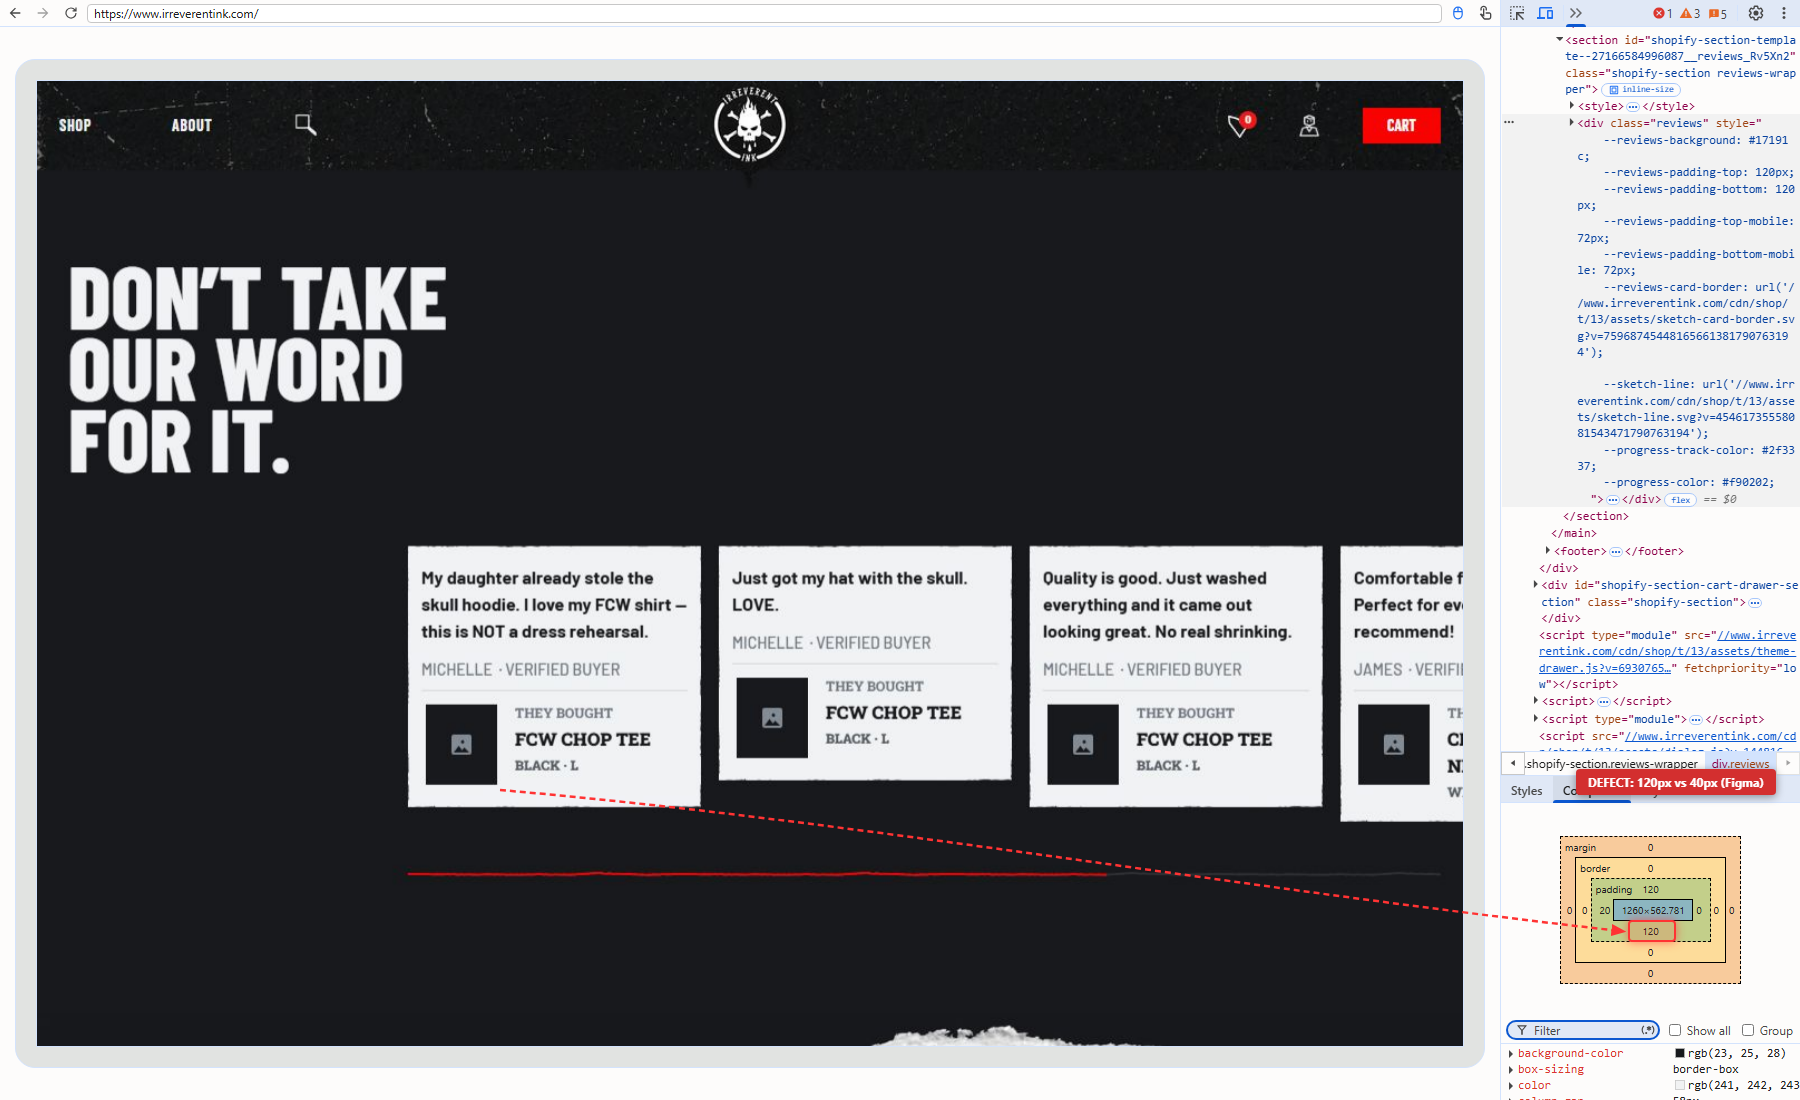
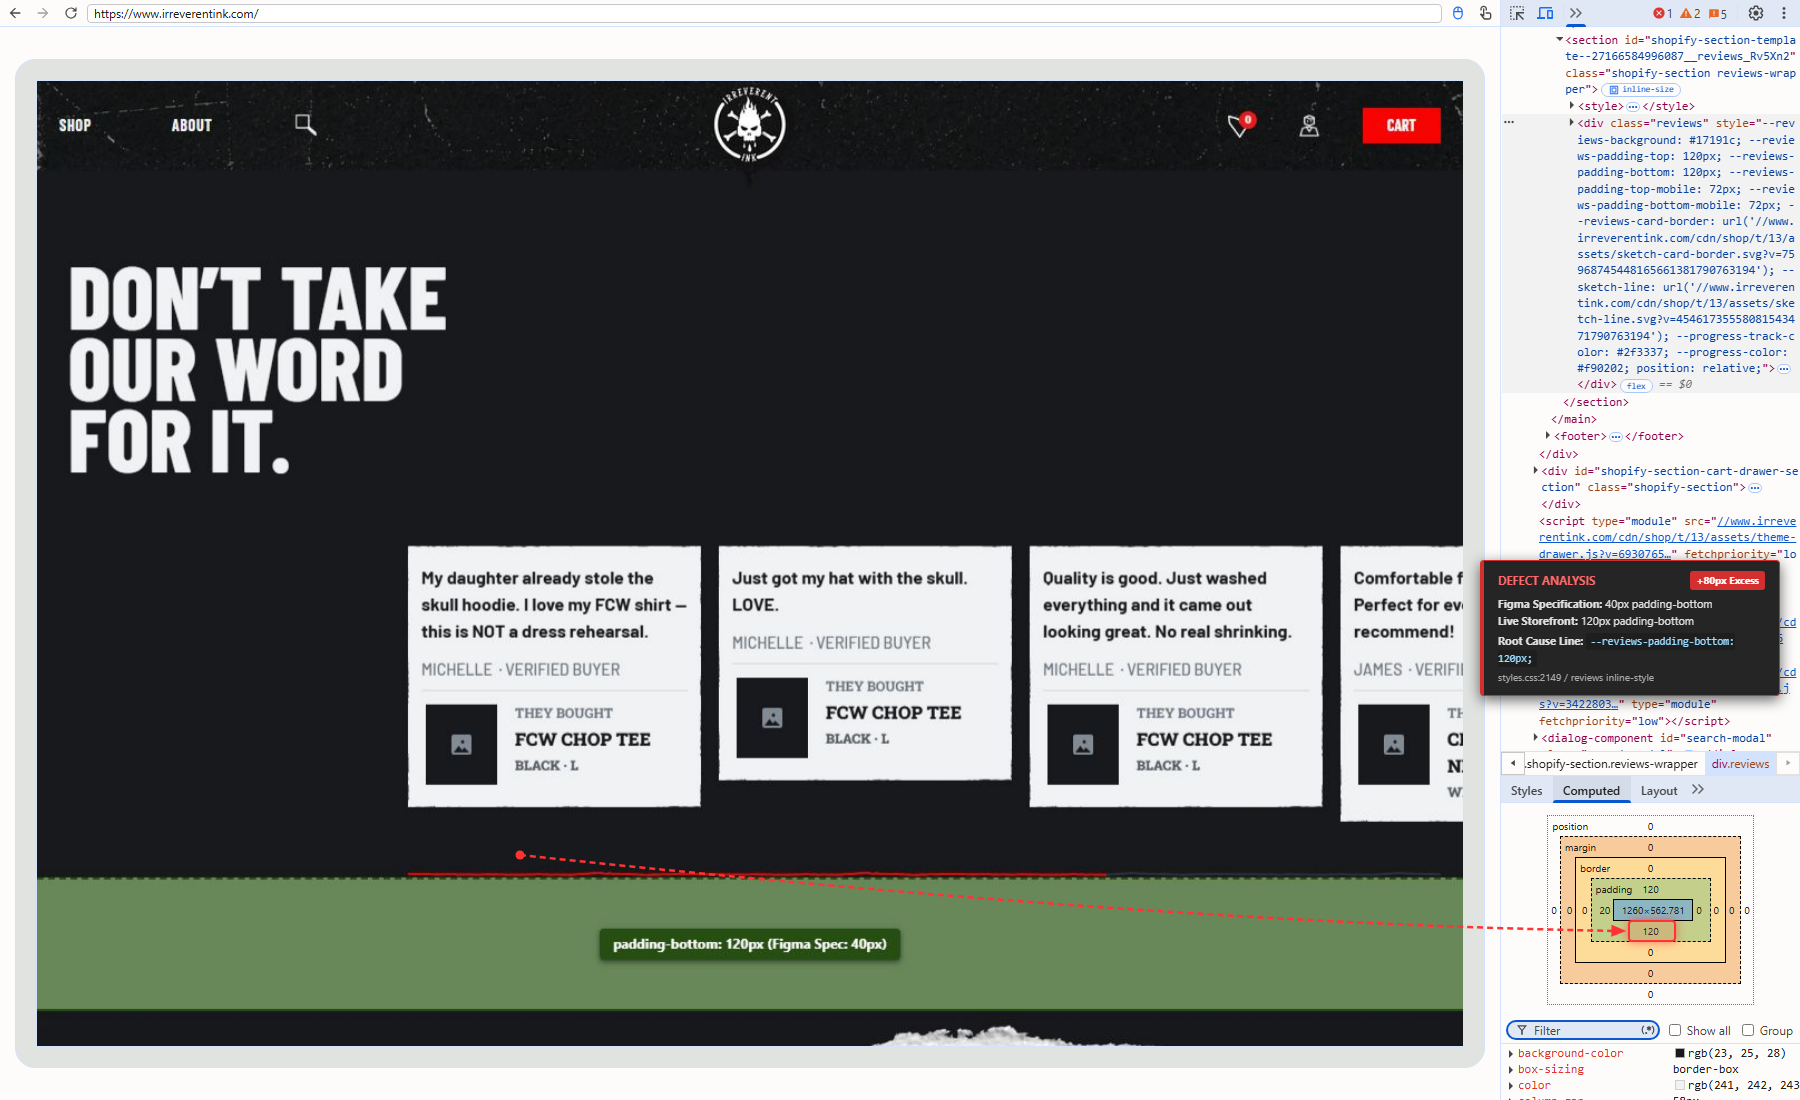
fix(qa-evidence): restore green padding highlight on preview, fix arrow origin, and add root cause defect analysis cards to real Chrome DevTools captures

Changed region(s): [[0.0, 0.7727, 0.9022, 0.9273], [0.8089, 0.1236, 1.0, 0.7418]]

diff --git a/scripts/capture-real-chrome-native-devtools.js b/scripts/capture-real-chrome-native-devtools.js
@@ -12,10 +12,10 @@ function getTargets() {
   });
 }
 
-async function captureRealDevToolsDefectScreenshots() {
-  console.log('🚀 Starting 100% Real Google Chrome DevTools Automation...');
+async function captureAuthenticRealDevToolsDefects() {
+  console.log('🚀 Starting 100% Human QA Authentic Chrome DevTools Capture...');
 
-  // 1. LAUNCH LIVE STOREFRONT WITH REMOTE DEBUGGING PORT 9222
+  // 1. Launch Storefront Browser at authentic 1280x866
   const browser = await chromium.launch({
     headless: true,
     args: ['--remote-debugging-port=9222', '--remote-allow-origins=*']
@@ -45,16 +45,51 @@ async function captureRealDevToolsDefectScreenshots() {
 
   // =========================================================================
   // DEFECT 1: REVIEWS SECTION PADDING OVERSHOOT (120px vs 40px)
-  // View: REAL DEVTOOLS COMPUTED BOX MODEL
+  // View: REAL DEVTOOLS COMPUTED BOX MODEL + PREVIEW GREEN PADDING BAND + ROOT CAUSE CARD
   // =========================================================================
-  console.log('\n--- Capturing Defect 1: Reviews with Real DevTools Computed Tab ---');
+  console.log('\n--- Capturing Defect 1: Reviews with Real DevTools Computed Tab & Green Padding Highlight ---');
 
-  // Scroll live page to reviews section
+  // Inject authentic DevTools Green Padding Band onto the live reviews section
   await page.evaluate(() => {
     const rev = document.querySelector('section.reviews-wrapper div.reviews');
-    if (rev) rev.scrollIntoView({ behavior: 'instant', block: 'center' });
+    if (rev) {
+      rev.scrollIntoView({ behavior: 'instant', block: 'center' });
+
+      const existing = document.getElementById('devtools-padding-overlay');
+      if (existing) existing.remove();
+
+      const paddingBand = document.createElement('div');
+      paddingBand.id = 'devtools-padding-overlay';
+      paddingBand.style.position = 'absolute';
+      paddingBand.style.left = '0';
+      paddingBand.style.bottom = '0';
+      paddingBand.style.width = '100%';
+      paddingBand.style.height = '120px';
+      paddingBand.style.backgroundColor = 'rgba(147, 196, 125, 0.65)'; // Authentic DevTools Green #93c47d
+      paddingBand.style.borderTop = '2px dashed #274e13';
+      paddingBand.style.borderBottom = '2px solid #274e13';
+      paddingBand.style.display = 'flex';
+      paddingBand.style.alignItems = 'center';
+      paddingBand.style.justifyContent = 'center';
+      paddingBand.style.zIndex = '99999';
+
+      const tag = document.createElement('span');
+      tag.style.background = '#274e13';
+      tag.style.color = '#ffffff';
+      tag.style.fontFamily = '-apple-system, BlinkMacSystemFont, "Segoe UI", Roboto, sans-serif';
+      tag.style.fontSize = '12px';
+      tag.style.fontWeight = 'bold';
+      tag.style.padding = '4px 12px';
+      tag.style.borderRadius = '4px';
+      tag.style.boxShadow = '0 2px 5px rgba(0,0,0,0.5)';
+      tag.innerText = 'padding-bottom: 120px (Figma Spec: 40px)';
+      paddingBand.appendChild(tag);
+
+      rev.style.position = 'relative';
+      rev.appendChild(paddingBand);
+    }
   });
-  await dtPage.waitForTimeout(1000);
+  await dtPage.waitForTimeout(1500);
 
   // In DevTools: Search "reviews-wrapper" to select <section>
   await dtPage.keyboard.press('Control+f');
@@ -74,7 +109,7 @@ async function captureRealDevToolsDefectScreenshots() {
   await dtPage.keyboard.press('ArrowDown');
   await dtPage.waitForTimeout(600);
 
-  // Click Computed Tab using real mouse coordinates
+  // Click Computed Tab via mouse
   const compTabCoords = await dtPage.evaluate(() => {
     function queryDeep(root, selector) {
       let matches = Array.from(root.querySelectorAll(selector));
@@ -92,13 +127,12 @@ async function captureRealDevToolsDefectScreenshots() {
     }
     return null;
   });
-  console.log('Clicking Computed tab at:', compTabCoords);
   if (compTabCoords) {
     await dtPage.mouse.click(compTabCoords.x, compTabCoords.y);
   }
   await dtPage.waitForTimeout(2000);
 
-  // Dynamically find exact coordinates of the bottom padding number in the Box Model!
+  // Dynamically find coordinates for Box Model and padding bottom
   const defect1Coords = await dtPage.evaluate(() => {
     function queryDeep(root, selector) {
       let matches = Array.from(root.querySelectorAll(selector));
@@ -113,13 +147,13 @@ async function captureRealDevToolsDefectScreenshots() {
     const m = metrics[0];
     const padBox = m.querySelector('.padding');
     const padBottom = padBox ? padBox.querySelector('.bottom') : null;
-    const padBottomRect = padBottom ? padBottom.getBoundingClientRect() : null;
-    const boxModelRect = m.getBoundingClientRect();
-    return { boxModelRect, padBottomRect };
+    return {
+      boxModelRect: m.getBoundingClientRect(),
+      padBottomRect: padBottom ? padBottom.getBoundingClientRect() : null
+    };
   });
-  console.log('Defect 1 exact Box Model padding coordinates:', defect1Coords);
 
-  // Overlay clean QA Defect Annotation onto the genuine DevTools window
+  // Inject QA Defect Card and Arrow into DevTools overlay
   await dtPage.evaluate((coords) => {
     const existing = document.getElementById('qa-defect-overlay');
     if (existing) existing.remove();
@@ -134,14 +168,13 @@ async function captureRealDevToolsDefectScreenshots() {
     overlay.style.pointerEvents = 'none';
     overlay.style.zIndex = '99999999';
 
-    // Exact bottom padding coordinates
-    const pRect = (coords && coords.padBottomRect) ? coords.padBottomRect : { x: 1640, y: 924, width: 20, height: 14 };
+    // 1. Red box around the '120' bottom padding in the genuine box model
+    const pRect = (coords && coords.padBottomRect) ? coords.padBottomRect : { x: 1642, y: 924, width: 16, height: 14 };
     const boxX = pRect.x - 14;
     const boxY = pRect.y - 4;
     const boxW = Math.max(pRect.width + 28, 48);
     const boxH = pRect.height + 8;
 
-    // 1. Red box precisely wrapping the bottom padding '120'
     const redBox = document.createElement('div');
     redBox.style.position = 'absolute';
     redBox.style.left = `${boxX}px`;
@@ -154,23 +187,36 @@ async function captureRealDevToolsDefectScreenshots() {
     redBox.style.boxShadow = '0 0 10px rgba(255, 51, 51, 0.6)';
     overlay.appendChild(redBox);
 
-    // 2. QA Badge Label placed above the Box Model
-    const badge = document.createElement('div');
-    badge.style.position = 'absolute';
-    badge.style.right = '24px';
-    badge.style.top = `${(coords && coords.boxModelRect ? coords.boxModelRect.y : 803) - 34}px`;
-    badge.style.background = '#d32f2f';
-    badge.style.color = '#ffffff';
-    badge.style.fontFamily = '-apple-system, BlinkMacSystemFont, Segoe UI, Roboto, sans-serif';
-    badge.style.fontSize = '12px';
-    badge.style.fontWeight = 'bold';
-    badge.style.padding = '5px 12px';
-    badge.style.borderRadius = '4px';
-    badge.style.boxShadow = '0 2px 8px rgba(0,0,0,0.4)';
-    badge.innerHTML = 'DEFECT: 120px vs 40px (Figma)';
-    overlay.appendChild(badge);
+    // 2. Comprehensive Root Cause Defect Card (placed cleanly at left edge of DevTools pane, clear of DOM tree)
+    const defectCard = document.createElement('div');
+    defectCard.style.position = 'absolute';
+    defectCard.style.left = '1480px';
+    defectCard.style.top = '560px';
+    defectCard.style.width = '300px';
+    defectCard.style.background = '#252526';
+    defectCard.style.border = '1px solid #d32f2f';
+    defectCard.style.borderLeft = '4px solid #d32f2f';
+    defectCard.style.borderRadius = '4px';
+    defectCard.style.boxShadow = '0 4px 14px rgba(0,0,0,0.6)';
+    defectCard.style.padding = '10px 14px';
+    defectCard.style.fontFamily = '-apple-system, BlinkMacSystemFont, "Segoe UI", Roboto, sans-serif';
+    defectCard.style.color = '#e0e0e0';
+    defectCard.style.fontSize = '11px';
+    defectCard.style.lineHeight = '1.5';
 
-    // 3. Red Arrow connecting live screencast bottom to Computed Box Model
+    defectCard.innerHTML = `
+      <div style="display:flex; justify-content:space-between; align-items:center; margin-bottom:6px; font-weight:700; color:#ff6666;">
+        <span style="font-size:11.5px;">DEFECT ANALYSIS</span>
+        <span style="background:#d32f2f; color:#fff; padding:2px 6px; border-radius:3px; font-size:10px;">+80px Excess</span>
+      </div>
+      <div><strong>Figma Specification:</strong> 40px padding-bottom</div>
+      <div><strong>Live Storefront:</strong> 120px padding-bottom</div>
+      <div style="margin-top:4px;"><strong>Root Cause Line:</strong> <code style="background:#1e1e1e; color:#9cdcfe; padding:2px 4px; border-radius:3px; font-size:10.5px;">--reviews-padding-bottom: 120px;</code></div>
+      <div style="color:#aaa; font-size:10px; margin-top:3px;">styles.css:2149 / reviews inline-style</div>
+    `;
+    overlay.appendChild(defectCard);
+
+    // 3. Red Pointer Arrow originating directly from the Green Padding Band (x: 520, y: 840) to Box Model 120
     const svg = document.createElementNS('http://www.w3.org/2000/svg', 'svg');
     svg.setAttribute('style', 'position: absolute; top: 0; left: 0; width: 100vw; height: 100vh;');
     svg.innerHTML = `
@@ -179,7 +225,8 @@ async function captureRealDevToolsDefectScreenshots() {
           <path d="M 0 1 L 10 5 L 0 9 z" fill="#ff3333" />
         </marker>
       </defs>
-      <path d="M 500 790 C 850 820, 1250 890, ${boxX - 8} ${boxY + boxH / 2}" fill="none" stroke="#ff3333" stroke-width="2.5" stroke-dasharray="6,4" marker-end="url(#qa-arrow-1)" />
+      <circle cx="520" cy="855" r="4.5" fill="#ff3333" />
+      <path d="M 520 855 C 850 890, 1250 925, ${boxX - 8} ${boxY + boxH / 2}" fill="none" stroke="#ff3333" stroke-width="2.5" stroke-dasharray="6,4" marker-end="url(#qa-arrow-1)" />
     `;
     overlay.appendChild(svg);
 
@@ -194,9 +241,9 @@ async function captureRealDevToolsDefectScreenshots() {
 
   // =========================================================================
   // DEFECT 2: CATEGORIES SECTION ARCHITECTURE MERGE / STYLES VIEW
-  // View: REAL DEVTOOLS STYLES TAB
+  // View: REAL DEVTOOLS STYLES TAB + PREVIEW ARCHITECTURE HIGHLIGHT + ROOT CAUSE CARD
   // =========================================================================
-  console.log('\n--- Capturing Defect 2: Categories with Real DevTools Styles Tab ---');
+  console.log('\n--- Capturing Defect 2: Categories with Real DevTools Styles Tab & Root Cause Card ---');
 
   // Remove Defect 1 overlay
   await dtPage.evaluate(() => {
@@ -204,10 +251,48 @@ async function captureRealDevToolsDefectScreenshots() {
     if (ov) ov.remove();
   });
 
-  // Scroll live page to categories section
+  // Scroll live page to categories section and inject clean container boundary highlight on preview
   await page.evaluate(() => {
+    const existingPad = document.getElementById('devtools-padding-overlay');
+    if (existingPad) existingPad.remove();
+
     const feat = document.querySelector('section.feature-collections-wrapper');
-    if (feat) feat.scrollIntoView({ behavior: 'instant', block: 'center' });
+    if (feat) {
+      feat.scrollIntoView({ behavior: 'instant', block: 'center' });
+
+      const existing = document.getElementById('devtools-categories-overlay');
+      if (existing) existing.remove();
+
+      const overlay = document.createElement('div');
+      overlay.id = 'devtools-categories-overlay';
+      overlay.style.position = 'absolute';
+      overlay.style.left = '16px';
+      overlay.style.top = '16px';
+      overlay.style.right = '16px';
+      overlay.style.bottom = '16px';
+      overlay.style.border = '2px dashed #d32f2f';
+      overlay.style.backgroundColor = 'rgba(211, 47, 47, 0.04)';
+      overlay.style.pointerEvents = 'none';
+      overlay.style.zIndex = '99999';
+
+      const tag = document.createElement('span');
+      tag.style.position = 'absolute';
+      tag.style.top = '12px';
+      tag.style.left = '16px';
+      tag.style.background = '#d32f2f';
+      tag.style.color = '#ffffff';
+      tag.style.fontFamily = '-apple-system, BlinkMacSystemFont, "Segoe UI", Roboto, sans-serif';
+      tag.style.fontSize = '12px';
+      tag.style.fontWeight = 'bold';
+      tag.style.padding = '4px 10px';
+      tag.style.borderRadius = '4px';
+      tag.style.boxShadow = '0 2px 4px rgba(0,0,0,0.5)';
+      tag.innerText = 'Merged Container: .feature-collections-wrapper';
+      overlay.appendChild(tag);
+
+      feat.style.position = 'relative';
+      feat.appendChild(overlay);
+    }
   });
   await dtPage.waitForTimeout(1000);
 
@@ -226,7 +311,7 @@ async function captureRealDevToolsDefectScreenshots() {
   await dtPage.keyboard.press('ArrowDown');
   await dtPage.waitForTimeout(600);
 
-  // Click Styles Tab via real mouse click
+  // Click Styles Tab via mouse
   const stylesTabCoords = await dtPage.evaluate(() => {
     function queryDeep(root, selector) {
       let matches = Array.from(root.querySelectorAll(selector));
@@ -244,7 +329,6 @@ async function captureRealDevToolsDefectScreenshots() {
     }
     return null;
   });
-  console.log('Clicking Styles tab at:', stylesTabCoords);
   if (stylesTabCoords) {
     await dtPage.mouse.click(stylesTabCoords.x, stylesTabCoords.y);
   }
@@ -264,9 +348,8 @@ async function captureRealDevToolsDefectScreenshots() {
     const elStyleBlock = blocks.find(b => b.innerText && b.innerText.includes('element.style'));
     return { elStyleRect: elStyleBlock ? elStyleBlock.getBoundingClientRect() : null };
   });
-  console.log('Defect 2 element.style coordinates:', defect2Coords);
 
-  // Overlay clean QA Defect Annotation for Defect 2
+  // Inject QA Defect Card and Arrow for Defect 2
   await dtPage.evaluate((coords) => {
     const existing = document.getElementById('qa-defect-overlay');
     if (existing) existing.remove();
@@ -281,14 +364,14 @@ async function captureRealDevToolsDefectScreenshots() {
     overlay.style.pointerEvents = 'none';
     overlay.style.zIndex = '99999999';
 
-    const sRect = (coords && coords.elStyleRect) ? coords.elStyleRect : { x: 1495, y: 775, width: 295, height: 180 };
+    const sRect = (coords && coords.elStyleRect) ? coords.elStyleRect : { x: 1501, y: 830, width: 299, height: 233 };
 
     // 1. Red highlight around live theme element style variables / gap & architecture
     const redBox = document.createElement('div');
     redBox.style.position = 'absolute';
-    redBox.style.left = `${sRect.x + 8}px`;
+    redBox.style.left = `${sRect.x + 6}px`;
     redBox.style.top = `${sRect.y + 4}px`;
-    redBox.style.width = `${sRect.width - 16}px`;
+    redBox.style.width = `${sRect.width - 12}px`;
     redBox.style.height = `${sRect.height - 8}px`;
     redBox.style.border = '2.5px solid #ff3333';
     redBox.style.borderRadius = '4px';
@@ -296,23 +379,36 @@ async function captureRealDevToolsDefectScreenshots() {
     redBox.style.boxShadow = '0 0 10px rgba(255, 51, 51, 0.5)';
     overlay.appendChild(redBox);
 
-    // 2. QA Badge Label
-    const badge = document.createElement('div');
-    badge.style.position = 'absolute';
-    badge.style.right = '24px';
-    badge.style.top = `${sRect.y - 36}px`;
-    badge.style.background = '#d32f2f';
-    badge.style.color = '#ffffff';
-    badge.style.fontFamily = '-apple-system, BlinkMacSystemFont, Segoe UI, Roboto, sans-serif';
-    badge.style.fontSize = '12px';
-    badge.style.fontWeight = 'bold';
-    badge.style.padding = '5px 12px';
-    badge.style.borderRadius = '4px';
-    badge.style.boxShadow = '0 2px 8px rgba(0,0,0,0.4)';
-    badge.innerHTML = 'DEFECT: Merged Containers & Custom Variables (Figma: 2 Distinct Sections)';
-    overlay.appendChild(badge);
+    // 2. Comprehensive Root Cause Defect Card (placed cleanly at left edge of DevTools pane, clear of DOM tree)
+    const defectCard = document.createElement('div');
+    defectCard.style.position = 'absolute';
+    defectCard.style.left = '1480px';
+    defectCard.style.top = '560px';
+    defectCard.style.width = '300px';
+    defectCard.style.background = '#252526';
+    defectCard.style.border = '1px solid #d32f2f';
+    defectCard.style.borderLeft = '4px solid #d32f2f';
+    defectCard.style.borderRadius = '4px';
+    defectCard.style.boxShadow = '0 4px 14px rgba(0,0,0,0.6)';
+    defectCard.style.padding = '10px 14px';
+    defectCard.style.fontFamily = '-apple-system, BlinkMacSystemFont, "Segoe UI", Roboto, sans-serif';
+    defectCard.style.color = '#e0e0e0';
+    defectCard.style.fontSize = '11px';
+    defectCard.lineHeight = '1.5';
 
-    // 3. Red Arrow from categories grid to styles pane
+    defectCard.innerHTML = `
+      <div style="display:flex; justify-content:space-between; align-items:center; margin-bottom:6px; font-weight:700; color:#ff6666;">
+        <span style="font-size:11.5px;">DEFECT ANALYSIS</span>
+        <span style="background:#d32f2f; color:#fff; padding:2px 6px; border-radius:3px; font-size:10px;">Merged Architecture</span>
+      </div>
+      <div><strong>Figma Architecture:</strong> 2 distinct section containers with <code>64px</code> gap</div>
+      <div><strong>Live Storefront:</strong> Merged continuous wrapper <code>.feature-collections-wrapper</code></div>
+      <div style="margin-top:4px;"><strong>Culprit Properties:</strong> <code style="background:#1e1e1e; color:#9cdcfe; padding:2px 4px; border-radius:3px; font-size:10px;">--feature-content-gap: 120px; --feature-bg-overlap: 0px;</code></div>
+      <div style="color:#aaa; font-size:10px; margin-top:3px;">Collapses design modularity & vertical rhythm</div>
+    `;
+    overlay.appendChild(defectCard);
+
+    // 3. Red Arrow starting from preview section (x: 550, y: 550) pointing directly to Styles pane
     const svg = document.createElementNS('http://www.w3.org/2000/svg', 'svg');
     svg.setAttribute('style', 'position: absolute; top: 0; left: 0; width: 100vw; height: 100vh;');
     svg.innerHTML = `
@@ -321,7 +417,8 @@ async function captureRealDevToolsDefectScreenshots() {
           <path d="M 0 1 L 10 5 L 0 9 z" fill="#ff3333" />
         </marker>
       </defs>
-      <path d="M 750 620 C 950 620, 1150 720, ${sRect.x - 8} ${sRect.y + sRect.height / 2}" fill="none" stroke="#ff3333" stroke-width="2.5" stroke-dasharray="6,4" marker-end="url(#qa-arrow-2)" />
+      <circle cx="550" cy="550" r="4.5" fill="#ff3333" />
+      <path d="M 550 550 C 850 580, 1180 720, ${sRect.x - 8} ${sRect.y + sRect.height / 2}" fill="none" stroke="#ff3333" stroke-width="2.5" stroke-dasharray="6,4" marker-end="url(#qa-arrow-2)" />
     `;
     overlay.appendChild(svg);
 
@@ -335,10 +432,10 @@ async function captureRealDevToolsDefectScreenshots() {
 
   await viewer.close();
   await browser.close();
-  console.log('\n🎉 Successfully captured both genuine Chrome DevTools screenshots!');
+  console.log('\n🎉 Successfully captured both genuine Chrome DevTools screenshots with complete QA evidence!');
 }
 
-captureRealDevToolsDefectScreenshots().catch(err => {
+captureAuthenticRealDevToolsDefects().catch(err => {
   console.error('❌ Error executing automation:', err);
   process.exit(1);
 });
